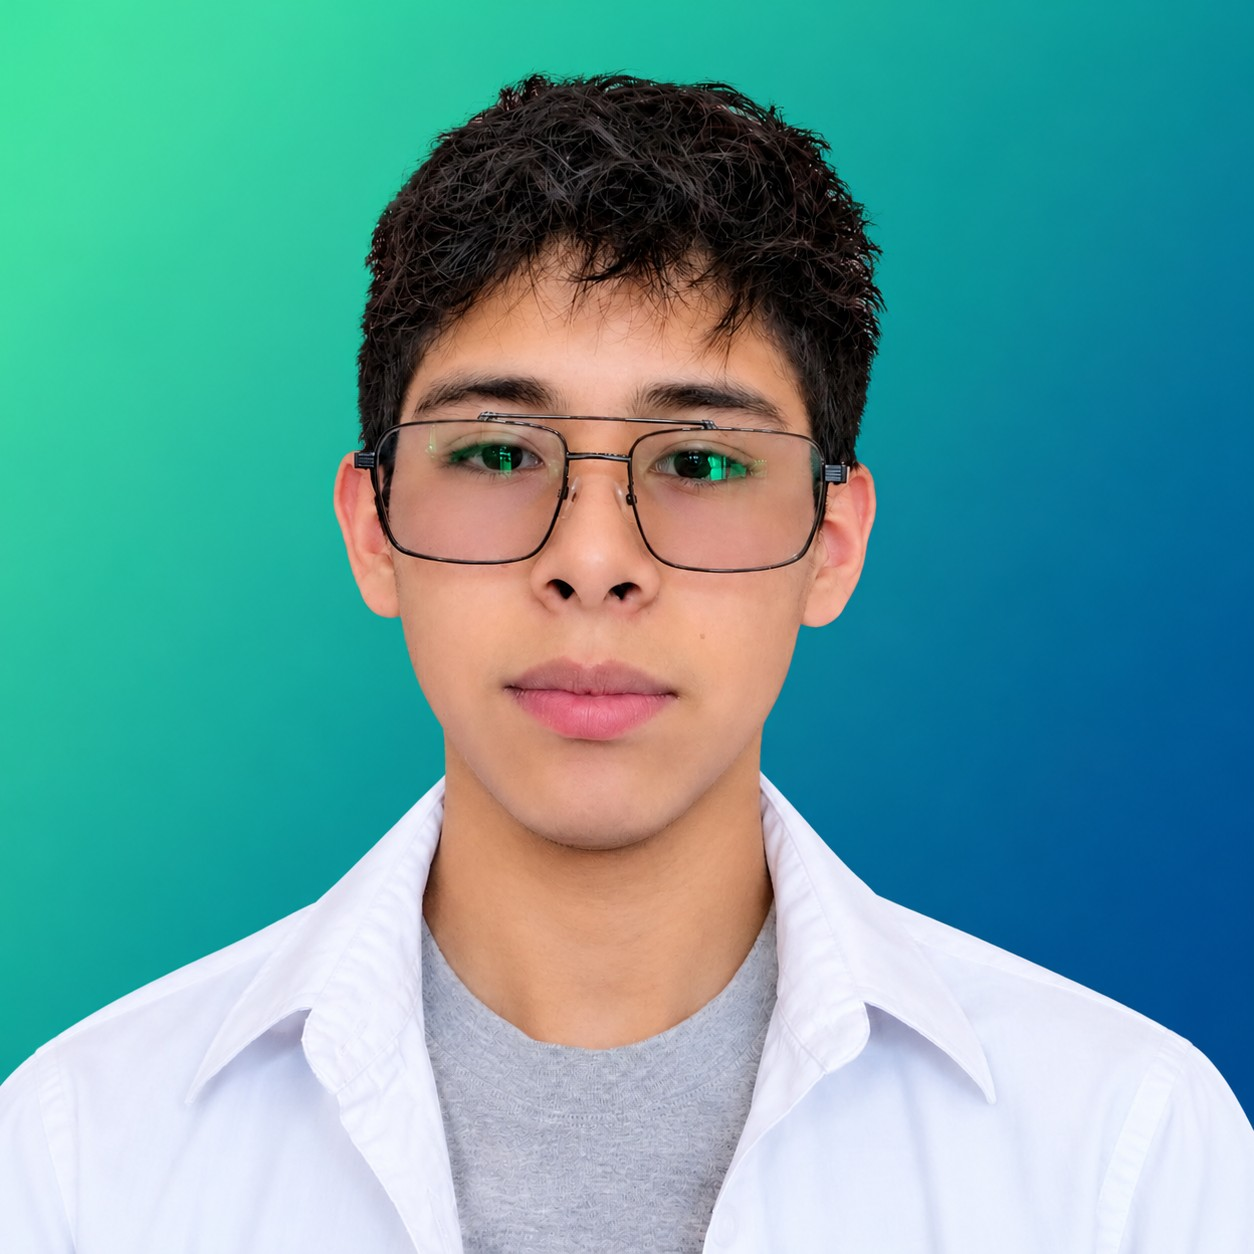
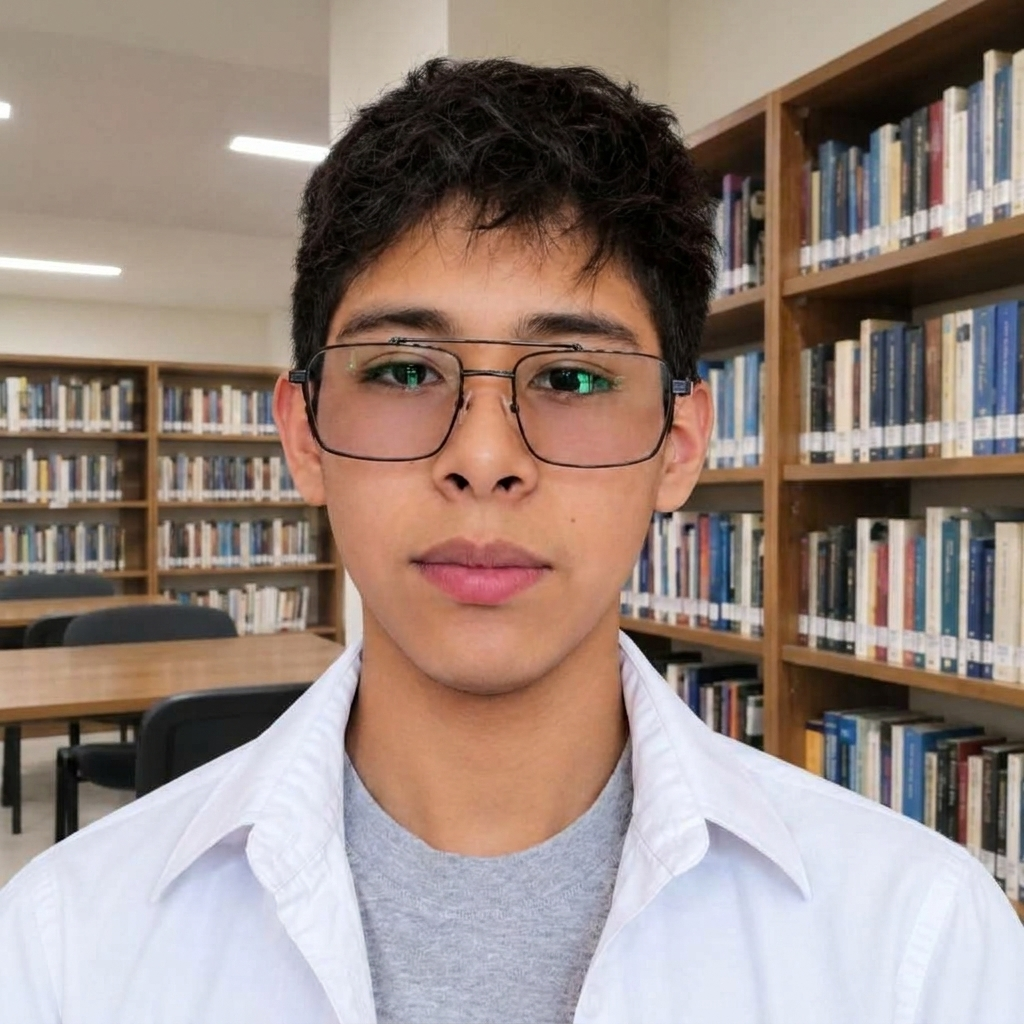
Agrega fotos de integrantes, prototipo y actualiza contenido y script

diff --git a/contenido.js b/contenido.js
@@ -92,7 +92,7 @@ window.CONTENIDO = {
 
     innovacion: {
       titulo: "¿Qué de innovador tiene?",
-      imagen: "",                         // ✏ EDITAR: foto de nuestro prototipo, ej. "prototipo.jpg"
+      imagen: "Prototipo.jpg",                         // ✏ EDITAR: foto de nuestro prototipo, ej. "prototipo.jpg"
       imagenAlt: "Foto de nuestro prototipo",
       parrafos: [
         "La innovación del proyecto no se limita a crear bolsas para el mercado. El prototipo busca desarrollar un bioplástico biodegradable, ya que está hecho a base de residuos orgánicos comunes, que pueda utilizarse en diferentes productos cotidianos.",
@@ -115,7 +115,7 @@ window.CONTENIDO = {
     imagenMaterialesAlt: "Materiales utilizados: vinagre, maicena y glicerina",
     imagenLaboratorio: "laboratorio.webp",
     imagenLaboratorioAlt: "Material de laboratorio",
-    botonProceso: "Ve paso a paso cómo lo hacemos",
+    /* botonProceso: "Ve paso a paso cómo lo hacemos", */
 
     procesoTitulo: "Proceso",
     /* ✏ EDITAR: ajusta cada paso a lo que realmente hicieron y agrega cantidades/fotos */
@@ -184,8 +184,8 @@ window.CONTENIDO = {
     integrantes: [     // ✏ EDITAR: nombres y fotos (imagen: "nombre.jpg")
       { nombre: "Matias Vargas", rol: "4to A Secundaria", imagen: "Matias.jpg" },
       { nombre: "Nayara Ramirez", rol: "4to A Secundaria", imagen: "Nayara.jpg" },
-      { nombre: "Integrante 3", rol: "4to A Secundaria", imagen: "" },
-      { nombre: "Integrante 4", rol: "4to A Secundaria", imagen: "" },
+      { nombre: "Isabella Pozo", rol: "4to A Secundaria", imagen: "Isabella.jpg" },
+      { nombre: "Maria Peredo", rol: "4to A Secundaria", imagen: "Maria.jpg" },
       { nombre: "Ing. Ivette", rol: "Tutora", imagen: "Ivette.jpg" }
     ],
     galeriaTitulo: "Galería",

diff --git a/js/main.js b/js/main.js
@@ -138,7 +138,7 @@
         img(E.imagenLaboratorio, E.imagenLaboratorioAlt, "round", 740, 494)
       ])
     ]),
-    el("div", { "class": "centro reveal" }, [el("a", { "class": "btn primary", href: "#proceso", text: E.botonProceso })]),
+    //el("div", { "class": "centro reveal" }, [el("a", { "class": "btn primary", href: "#proceso", text: E.botonProceso })]),
     el("h3", { "class": "h3c reveal", id: "proceso", text: E.procesoTitulo }),
     el("ol", { "class": "pasos" }, E.pasos.map(function (p, i) {
       return el("li", { "class": "paso reveal" }, [
